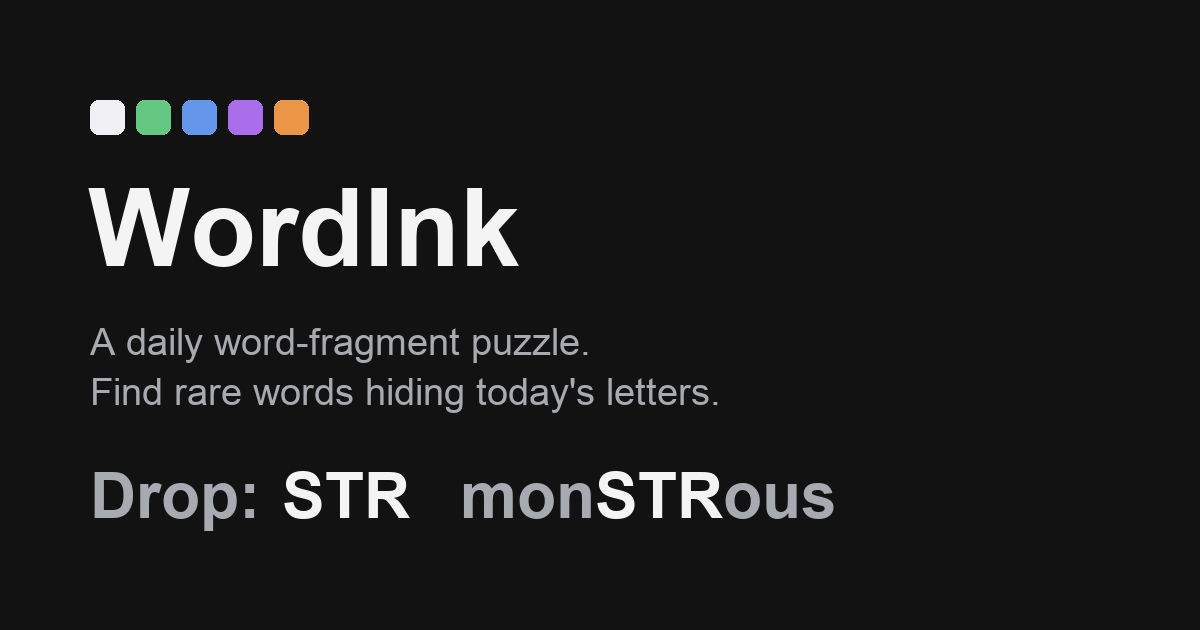
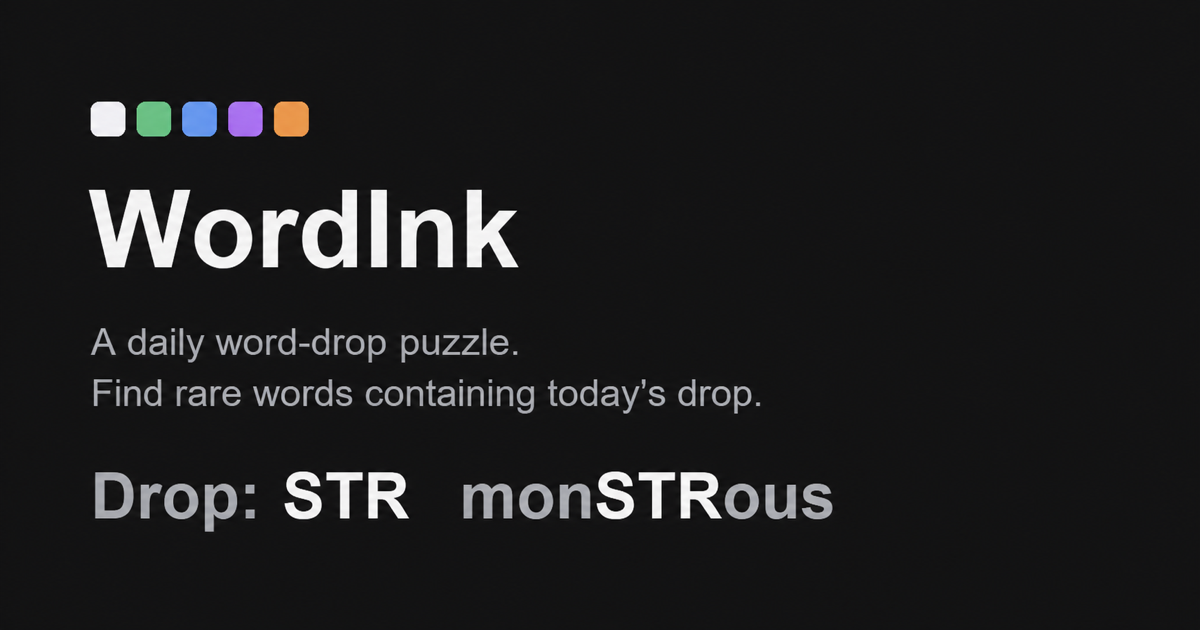
Update word-drop preview copy

diff --git a/index.html b/index.html
@@ -16,20 +16,20 @@
     <meta name="theme-color" content="#fafafa" media="(prefers-color-scheme: light)" />
     <meta name="theme-color" content="#121213" media="(prefers-color-scheme: dark)" />
 
-    <title>WordInk — daily word fragment puzzle</title>
+    <title>WordInk — daily word-drop puzzle</title>
     <meta
       name="description"
-      content="WordInk is a daily word-drop puzzle: everyone gets the same letters, you find the rarest word you can that contains them. No timer, no login -- just a daily vocabulary challenge inspired by Wordle."
+      content="WordInk is a daily word-drop puzzle: everyone gets the same drop, and you find the rarest word you can that contains it. No timer, no login -- just a daily vocabulary challenge inspired by Wordle."
     />
     <link rel="canonical" href="https://wordink.app/" />
 
     <!-- Open Graph -->
     <meta property="og:type" content="website" />
     <meta property="og:site_name" content="WordInk" />
-    <meta property="og:title" content="WordInk — daily word fragment puzzle" />
+    <meta property="og:title" content="WordInk — daily word-drop puzzle" />
     <meta
       property="og:description"
-      content="Everyone gets the same daily letters. Find the rarest word you can that contains them, in up to 6 guesses."
+      content="Everyone gets the same daily drop. Find the rarest word you can that contains it, in up to 6 guesses."
     />
     <meta property="og:url" content="https://wordink.app/" />
     <meta property="og:image" content="https://wordink.app/og-image.png" />
@@ -38,10 +38,10 @@
 
     <!-- Twitter Card -->
     <meta name="twitter:card" content="summary_large_image" />
-    <meta name="twitter:title" content="WordInk — daily word fragment puzzle" />
+    <meta name="twitter:title" content="WordInk — daily word-drop puzzle" />
     <meta
       name="twitter:description"
-      content="Everyone gets the same daily letters. Find the rarest word you can that contains them, in up to 6 guesses."
+      content="Everyone gets the same daily drop. Find the rarest word you can that contains it, in up to 6 guesses."
     />
     <meta name="twitter:image" content="https://wordink.app/og-image.png" />
 
@@ -58,7 +58,7 @@
         "@type": "Game",
         "name": "WordInk",
         "url": "https://wordink.app/",
-        "description": "A daily word-drop puzzle: everyone gets the same letters, and finds the rarest word they can that contains them.",
+        "description": "A daily word-drop puzzle: everyone gets the same drop, and finds the rarest word they can that contains it.",
         "genre": "Word game",
         "applicationCategory": "Game",
         "operatingSystem": "Any (web browser)",
